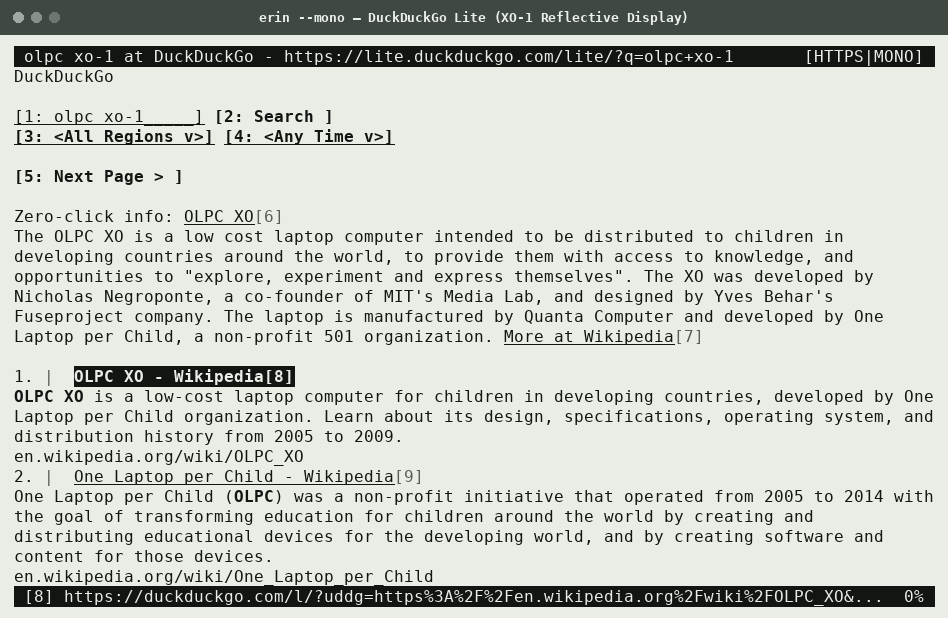
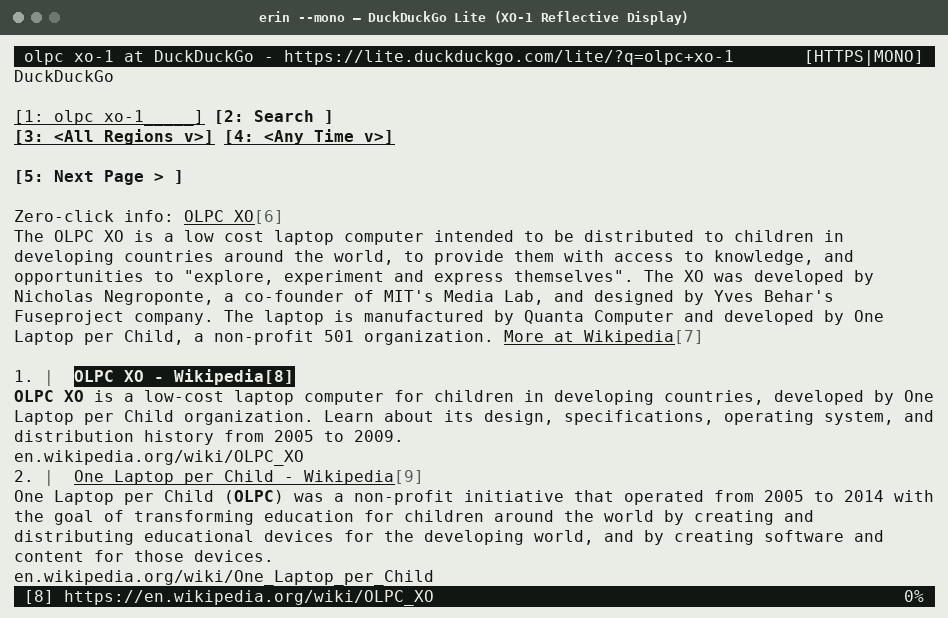
Follow HTML meta-refresh redirects and unwrap DuckDuckGo Lite links

Changed region(s): [[0.153, 0.9531, 0.9177, 0.9838]]

diff --git a/internal/netclient/client.go b/internal/netclient/client.go
@@ -17,10 +17,12 @@ import (
 	"net/http/cookiejar"
 	"net/url"
 	"regexp"
+	"strconv"
 	"strings"
 	"time"
 
 	"github.com/andybalholm/brotli"
+	"golang.org/x/net/html"
 	"golang.org/x/text/encoding/htmlindex"
 	"golang.org/x/text/transform"
 )
@@ -300,6 +302,35 @@ func (c *Client) PostForm(rawURL string, values url.Values, referer string) (*Re
 }
 
 func (c *Client) doRequest(method, rawURL string, form url.Values, referer string) (*Response, error) {
+	const maxMetaRedirects = 5
+	visited := map[string]bool{}
+	curMethod := method
+	curURL := rawURL
+	curForm := form
+	curReferer := referer
+
+	for hop := 0; hop <= maxMetaRedirects; hop++ {
+		resp, err := c.doSingleRequest(curMethod, curURL, curForm, curReferer)
+		if err != nil {
+			return nil, err
+		}
+		if !resp.IsHTML || hop == maxMetaRedirects {
+			return resp, nil
+		}
+		nextURL := extractMetaRefreshURL(resp.Body, resp.FinalURL)
+		if nextURL == "" || nextURL == resp.FinalURL || visited[nextURL] {
+			return resp, nil
+		}
+		visited[resp.FinalURL] = true
+		curMethod = http.MethodGet
+		curForm = nil
+		curReferer = resp.FinalURL
+		curURL = nextURL
+	}
+	return c.doSingleRequest(curMethod, curURL, curForm, curReferer)
+}
+
+func (c *Client) doSingleRequest(method, rawURL string, form url.Values, referer string) (*Response, error) {
 	var bodyReader io.Reader
 	if method == http.MethodPost && form != nil {
 		bodyReader = strings.NewReader(form.Encode())
@@ -452,4 +483,84 @@ func decodeCharset(data []byte, charset string) string {
 		return string(data)
 	}
 	return string(decoded)
+}
+
+// extractMetaRefreshURL parses HTML for an immediate <meta http-equiv="refresh" content="0;url=...">
+// redirect (including inside <noscript>) and resolves it against baseURL.
+func extractMetaRefreshURL(rawHTML, baseURL string) string {
+	doc, err := html.ParseWithOptions(strings.NewReader(rawHTML), html.ParseOptionEnableScripting(false))
+	if err != nil {
+		return ""
+	}
+	var found string
+	var walk func(*html.Node)
+	walk = func(n *html.Node) {
+		if n == nil || found != "" {
+			return
+		}
+		if n.Type == html.ElementNode && strings.EqualFold(n.Data, "meta") {
+			var httpEquiv, content string
+			for _, a := range n.Attr {
+				if strings.EqualFold(a.Key, "http-equiv") {
+					httpEquiv = strings.TrimSpace(a.Val)
+				} else if strings.EqualFold(a.Key, "content") {
+					content = strings.TrimSpace(a.Val)
+				}
+			}
+			if strings.EqualFold(httpEquiv, "refresh") && content != "" {
+				if target := parseMetaRefreshContent(content); target != "" {
+					found = resolveMetaURL(baseURL, target)
+					return
+				}
+			}
+		}
+		for c := n.FirstChild; c != nil; c = c.NextSibling {
+			walk(c)
+		}
+	}
+	walk(doc)
+	return found
+}
+
+// parseMetaRefreshContent extracts the target URL from a meta refresh content attribute
+// if the delay is <= 3 seconds (so periodic page auto-reloads aren't treated as redirects).
+func parseMetaRefreshContent(content string) string {
+	idx := strings.IndexAny(content, ";,")
+	if idx < 0 {
+		return ""
+	}
+	delayStr := strings.TrimSpace(content[:idx])
+	delay, err := strconv.ParseFloat(delayStr, 64)
+	if err != nil || delay < 0 || delay > 3 {
+		return ""
+	}
+	rest := strings.TrimSpace(content[idx+1:])
+	if len(rest) >= 4 && strings.EqualFold(rest[:4], "url=") {
+		rest = strings.TrimSpace(rest[4:])
+	} else {
+		// Handle optional whitespace around '=' like "url = ..."
+		eq := strings.IndexByte(rest, '=')
+		if eq < 0 || !strings.EqualFold(strings.TrimSpace(rest[:eq]), "url") {
+			return ""
+		}
+		rest = strings.TrimSpace(rest[eq+1:])
+	}
+	rest = strings.Trim(rest, `"' `)
+	return rest
+}
+
+func resolveMetaURL(baseURL, ref string) string {
+	b, err := url.Parse(baseURL)
+	if err != nil {
+		return ref
+	}
+	u, err := url.Parse(ref)
+	if err != nil {
+		return ref
+	}
+	resolved := b.ResolveReference(u)
+	if resolved.Scheme != "http" && resolved.Scheme != "https" {
+		return ""
+	}
+	return resolved.String()
 }

diff --git a/internal/netclient/client_test.go b/internal/netclient/client_test.go
@@ -31,3 +31,27 @@ func TestResolveInput(t *testing.T) {
 		}
 	}
 }
+
+func TestExtractMetaRefreshURL(t *testing.T) {
+	// Actual DuckDuckGo redirect HTML pattern (meta refresh inside <noscript>)
+	ddgHTML := `<html><head><meta name='referrer' content='origin'></head><body><script language='JavaScript'>window.parent.location.replace("https://en.wikipedia.org/wiki/OLPC_XO");</script><noscript><META http-equiv='refresh' content="0;URL=https://en.wikipedia.org/wiki/OLPC_XO"></noscript></body></html>`
+	got := extractMetaRefreshURL(ddgHTML, "https://duckduckgo.com/l/?uddg=foo")
+	want := "https://en.wikipedia.org/wiki/OLPC_XO"
+	if got != want {
+		t.Fatalf("extractMetaRefreshURL(ddg) = %q, want %q", got, want)
+	}
+
+	// Relative meta refresh
+	relHTML := `<html><head><meta http-equiv="refresh" content="1; url='/docs/intro.html'"></head></html>`
+	got = extractMetaRefreshURL(relHTML, "https://example.com/old")
+	want = "https://example.com/docs/intro.html"
+	if got != want {
+		t.Fatalf("extractMetaRefreshURL(rel) = %q, want %q", got, want)
+	}
+
+	// Long auto-reload timer (> 3s) should NOT be auto-followed
+	reloadHTML := `<html><head><meta http-equiv="refresh" content="300; url=https://example.com/live"></head></html>`
+	if got := extractMetaRefreshURL(reloadHTML, "https://example.com/live"); got != "" {
+		t.Fatalf("expected long refresh timer to be ignored, got %q", got)
+	}
+}

diff --git a/internal/htmlrender/render.go b/internal/htmlrender/render.go
@@ -227,7 +227,7 @@ func RenderHTML(rawHTML, baseURL string, width int, readerMode bool) *Document {
 	if width < 24 {
 		width = 24
 	}
-	root, err := html.Parse(strings.NewReader(rawHTML))
+	root, err := html.ParseWithOptions(strings.NewReader(rawHTML), html.ParseOptionEnableScripting(false))
 	if err != nil {
 		return RenderPlainText(rawHTML, baseURL, baseURL, width)
 	}
@@ -1129,7 +1129,15 @@ func resolveURL(base, ref string) string {
 	if err != nil {
 		return ref
 	}
-	return b.ResolveReference(u).String()
+	resolved := b.ResolveReference(u)
+	// Unwrap DuckDuckGo Lite redirect wrappers (//duckduckgo.com/l/?uddg=...) directly
+	// to save an extra TLS round-trip on the XO-1 and display the true destination URL.
+	if strings.HasSuffix(strings.ToLower(resolved.Hostname()), "duckduckgo.com") && resolved.Path == "/l/" {
+		if target := resolved.Query().Get("uddg"); strings.HasPrefix(target, "http://") || strings.HasPrefix(target, "https://") {
+			return target
+		}
+	}
+	return resolved.String()
 }
 
 func shouldSkipNode(n *html.Node, tag string, readerMode bool) bool {

diff --git a/README.md b/README.md
@@ -83,10 +83,14 @@ The OLPC XO-1 is an iconic, rugged little machine, but browsing the modern web o
 
 ### Option 1: Copy over the network (`scp`)
 
-From the machine where you built Erin:
+From the machine where you built Erin (Fedora 18's older OpenSSH server requires enabling legacy `ssh-rsa` host keys and `-O` classic SCP protocol from modern clients):
 
 ```bash
-scp dist/erin-xo1-linux-i386 olpc@<xo-ip-address>:~/erin
+scp -O \
+  -o HostKeyAlgorithms=+ssh-rsa \
+  -o PubkeyAcceptedAlgorithms=+ssh-rsa \
+  -o KexAlgorithms=+diffie-hellman-group14-sha1,diffie-hellman-group-exchange-sha1 \
+  dist/erin-xo1-linux-i386 olpc@<xo-ip-address>:~/erin
 ```
 
 ### Option 2: Copy via USB flash drive
